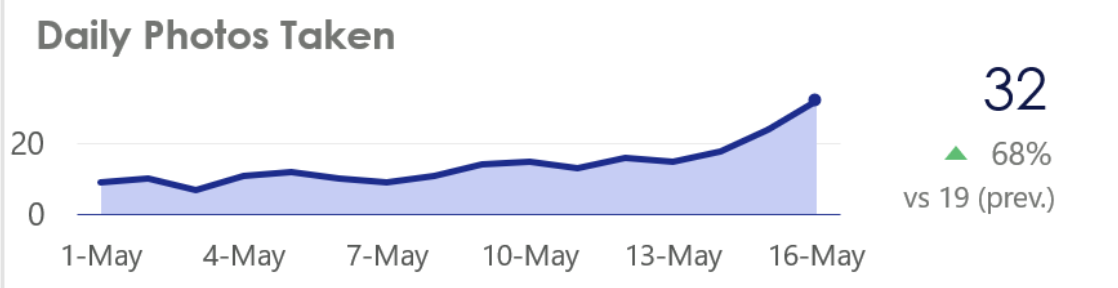
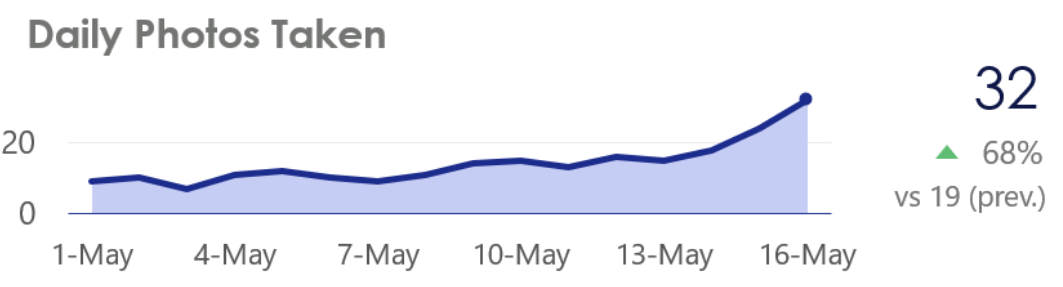
Update sizing and border alignment on Main page

diff --git a/WebApplication1/Content/Site.css b/WebApplication1/Content/Site.css
@@ -197,3 +197,14 @@ h4 {
     color: #737572;
     font-size:.85em;
 }
+.main-border {
+    border: rgb(227,227,227);
+    border-style: solid;
+    border-width: thick;
+}
+
+.center-block {
+    display: block;
+    margin-left: auto;
+    margin-right: auto;
+}
